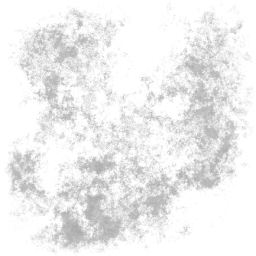
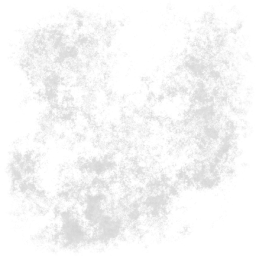
Tweak the textures some more
git-svn-id: https://svn.code.sf.net/p/bzflag/code/trunk/pybzflag@2566 08b3d480-bf2c-0410-a26f-811ee3361c24

diff --git a/BZFlag/UI/Drawable/Box.py b/BZFlag/UI/Drawable/Box.py
@@ -87,7 +87,7 @@ class BoxSides(DisplayList):
 class BoxTop(DisplayList):
     def __init__(self, box):
         self.box = box
-        self.textureNames = ['concrete.jpeg']
+        self.textureNames = ['concrete_dark.jpeg', 'lightmap.jpeg']
         self.tex2Coords = ( (0,0), (1,0), (1,1), (0,1) )
 
         # If the box is fairly large and squareish, use a square oil-stain texture
@@ -112,6 +112,7 @@ class BoxTop(DisplayList):
 
         try:
             self.render.textures[1].texEnv = GL_MODULATE
+            self.render.textures[2].texEnv = GL_MODULATE
         except IndexError:
             pass
 
@@ -122,16 +123,17 @@ class BoxTop(DisplayList):
         glBegin(GL_POLYGON)
         for i in xrange(4):
             vertex = self.polygon[i]
-            tex2Coord = self.tex2Coords[i]
             glTexCoord2f(vertex[0] / 30, vertex[1] / 30)
-            glMultiTexCoord2fARB(GL_TEXTURE1_ARB, tex2Coord[0], tex2Coord[1])
+            tex2Coord = self.tex2Coords[i]
+            glMultiTexCoord2fARB(GL_TEXTURE1_ARB, vertex[0] / 400, vertex[1] / 400)
+            glMultiTexCoord2fARB(GL_TEXTURE2_ARB, tex2Coord[0], tex2Coord[1])
             glVertex2f(*vertex)
         glEnd()
         glPopMatrix()
 
 
 class BoxBottom(DisplayList):
-    textureName = 'concrete_underside.jpeg'
+    textureName = 'concrete_light.jpeg'
     
     def set(self, polygon, height):
         self.polygon = polygon

diff --git a/BZFlag/UI/Drawable/Ground.py b/BZFlag/UI/Drawable/Ground.py
@@ -27,7 +27,7 @@ from BZFlag.UI import GLExtension
 
 
 class Ground(DisplayList):
-    textureNames = ('grass_base.png', 'grass_overlay.jpeg')
+    textureNames = ('grass.jpeg', 'lightmap.jpeg')
 
     def set(self, size):
         self.size = size / 2
